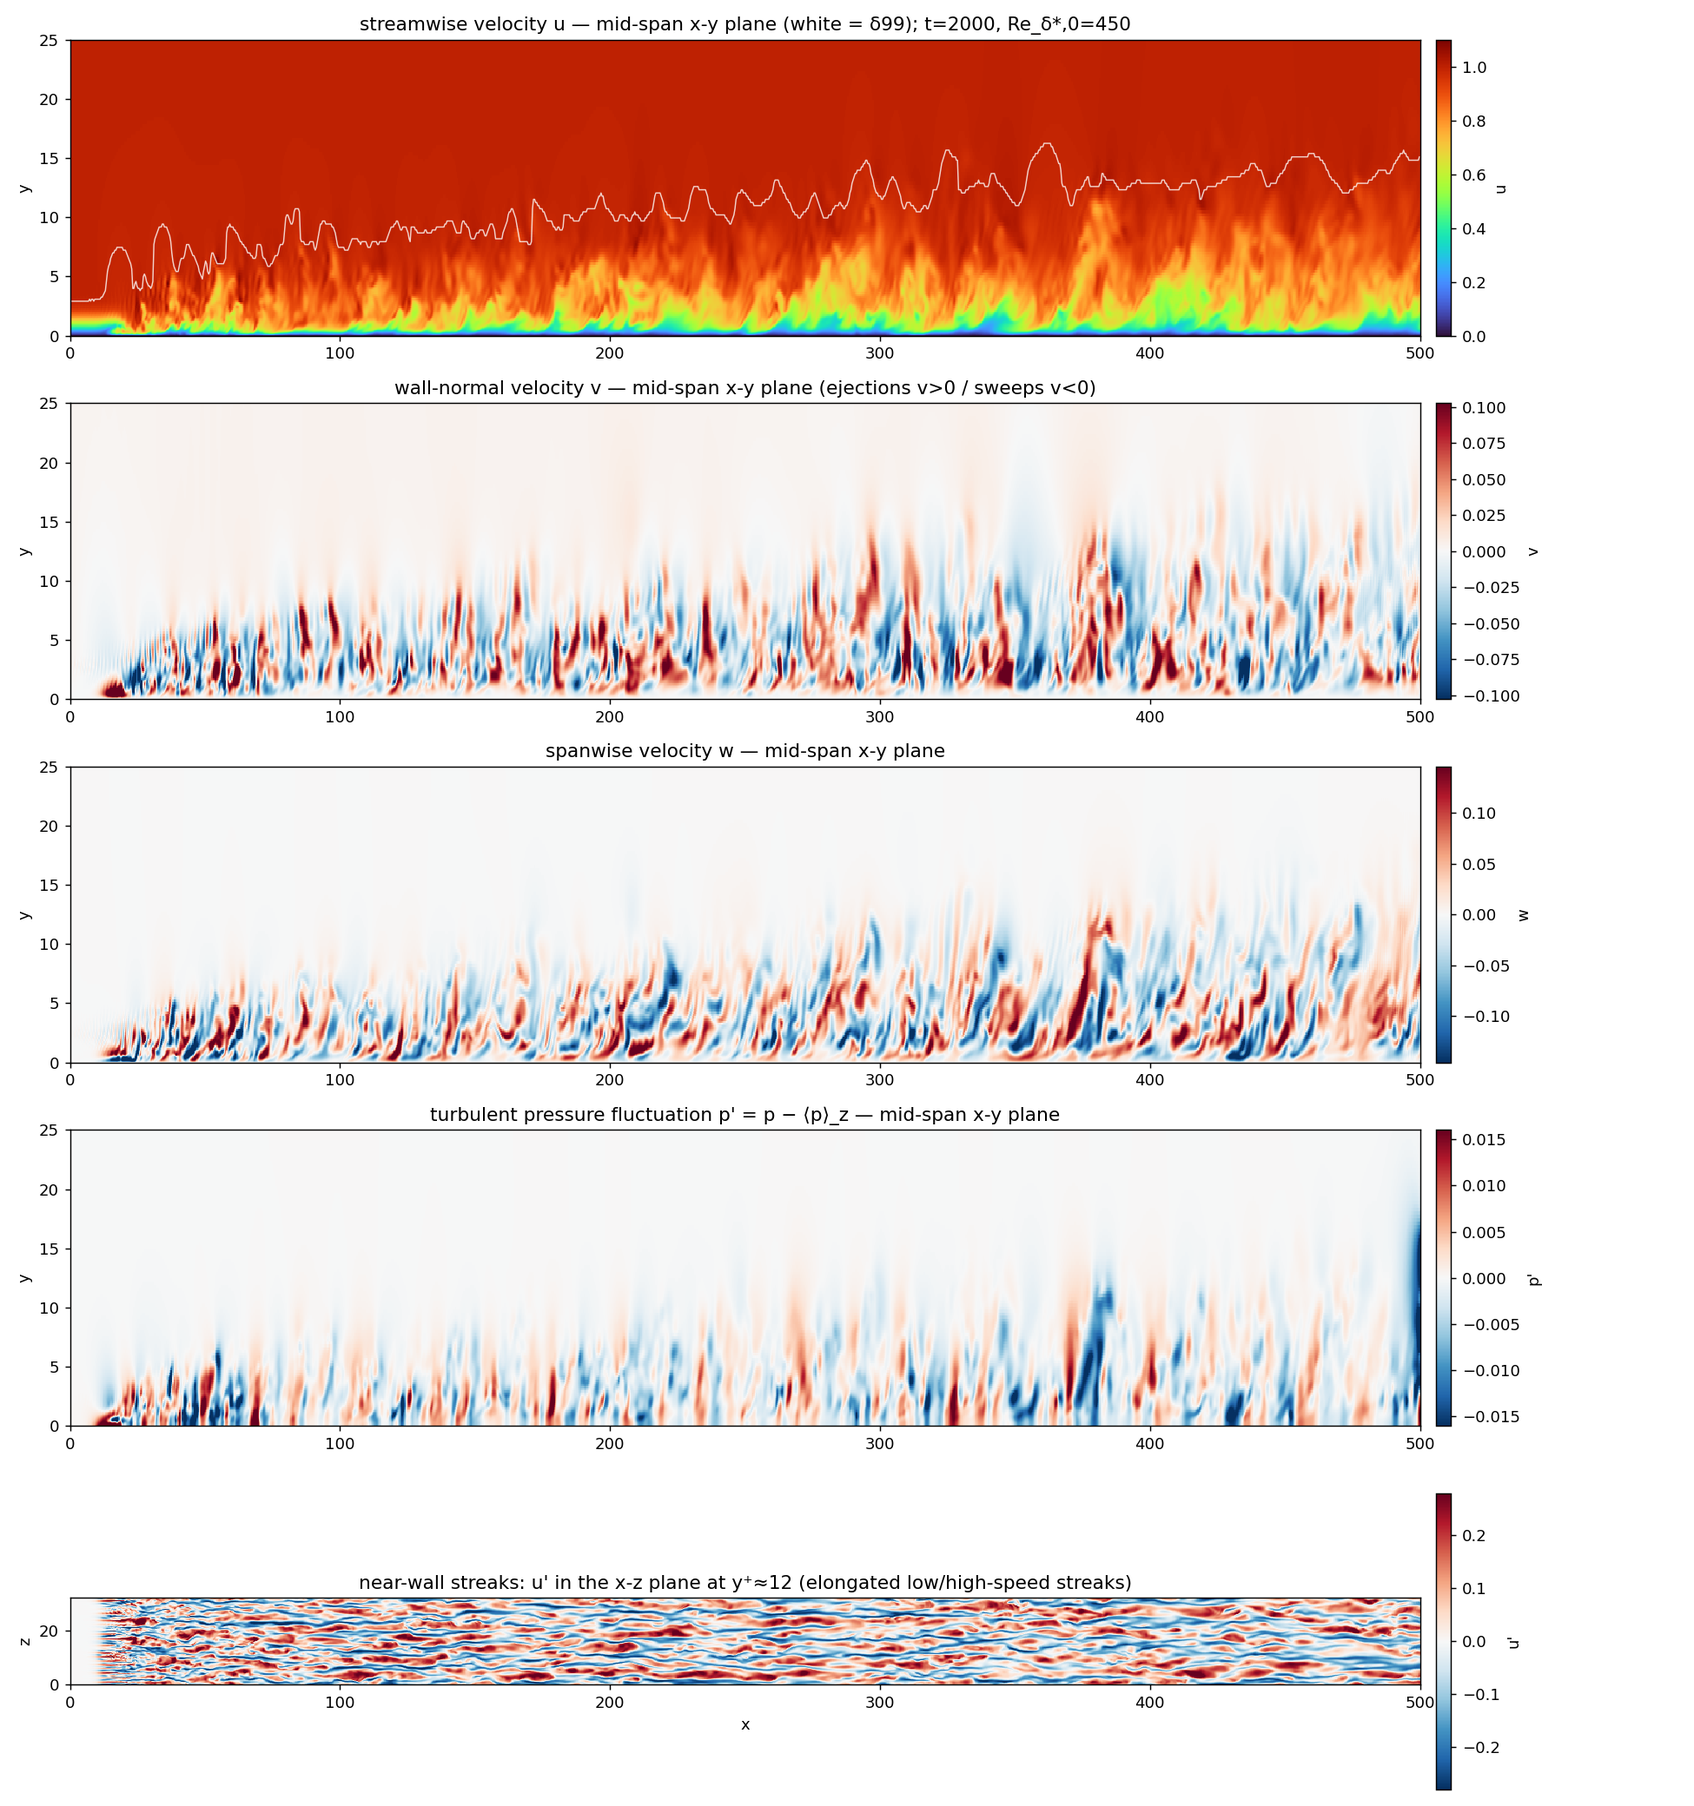
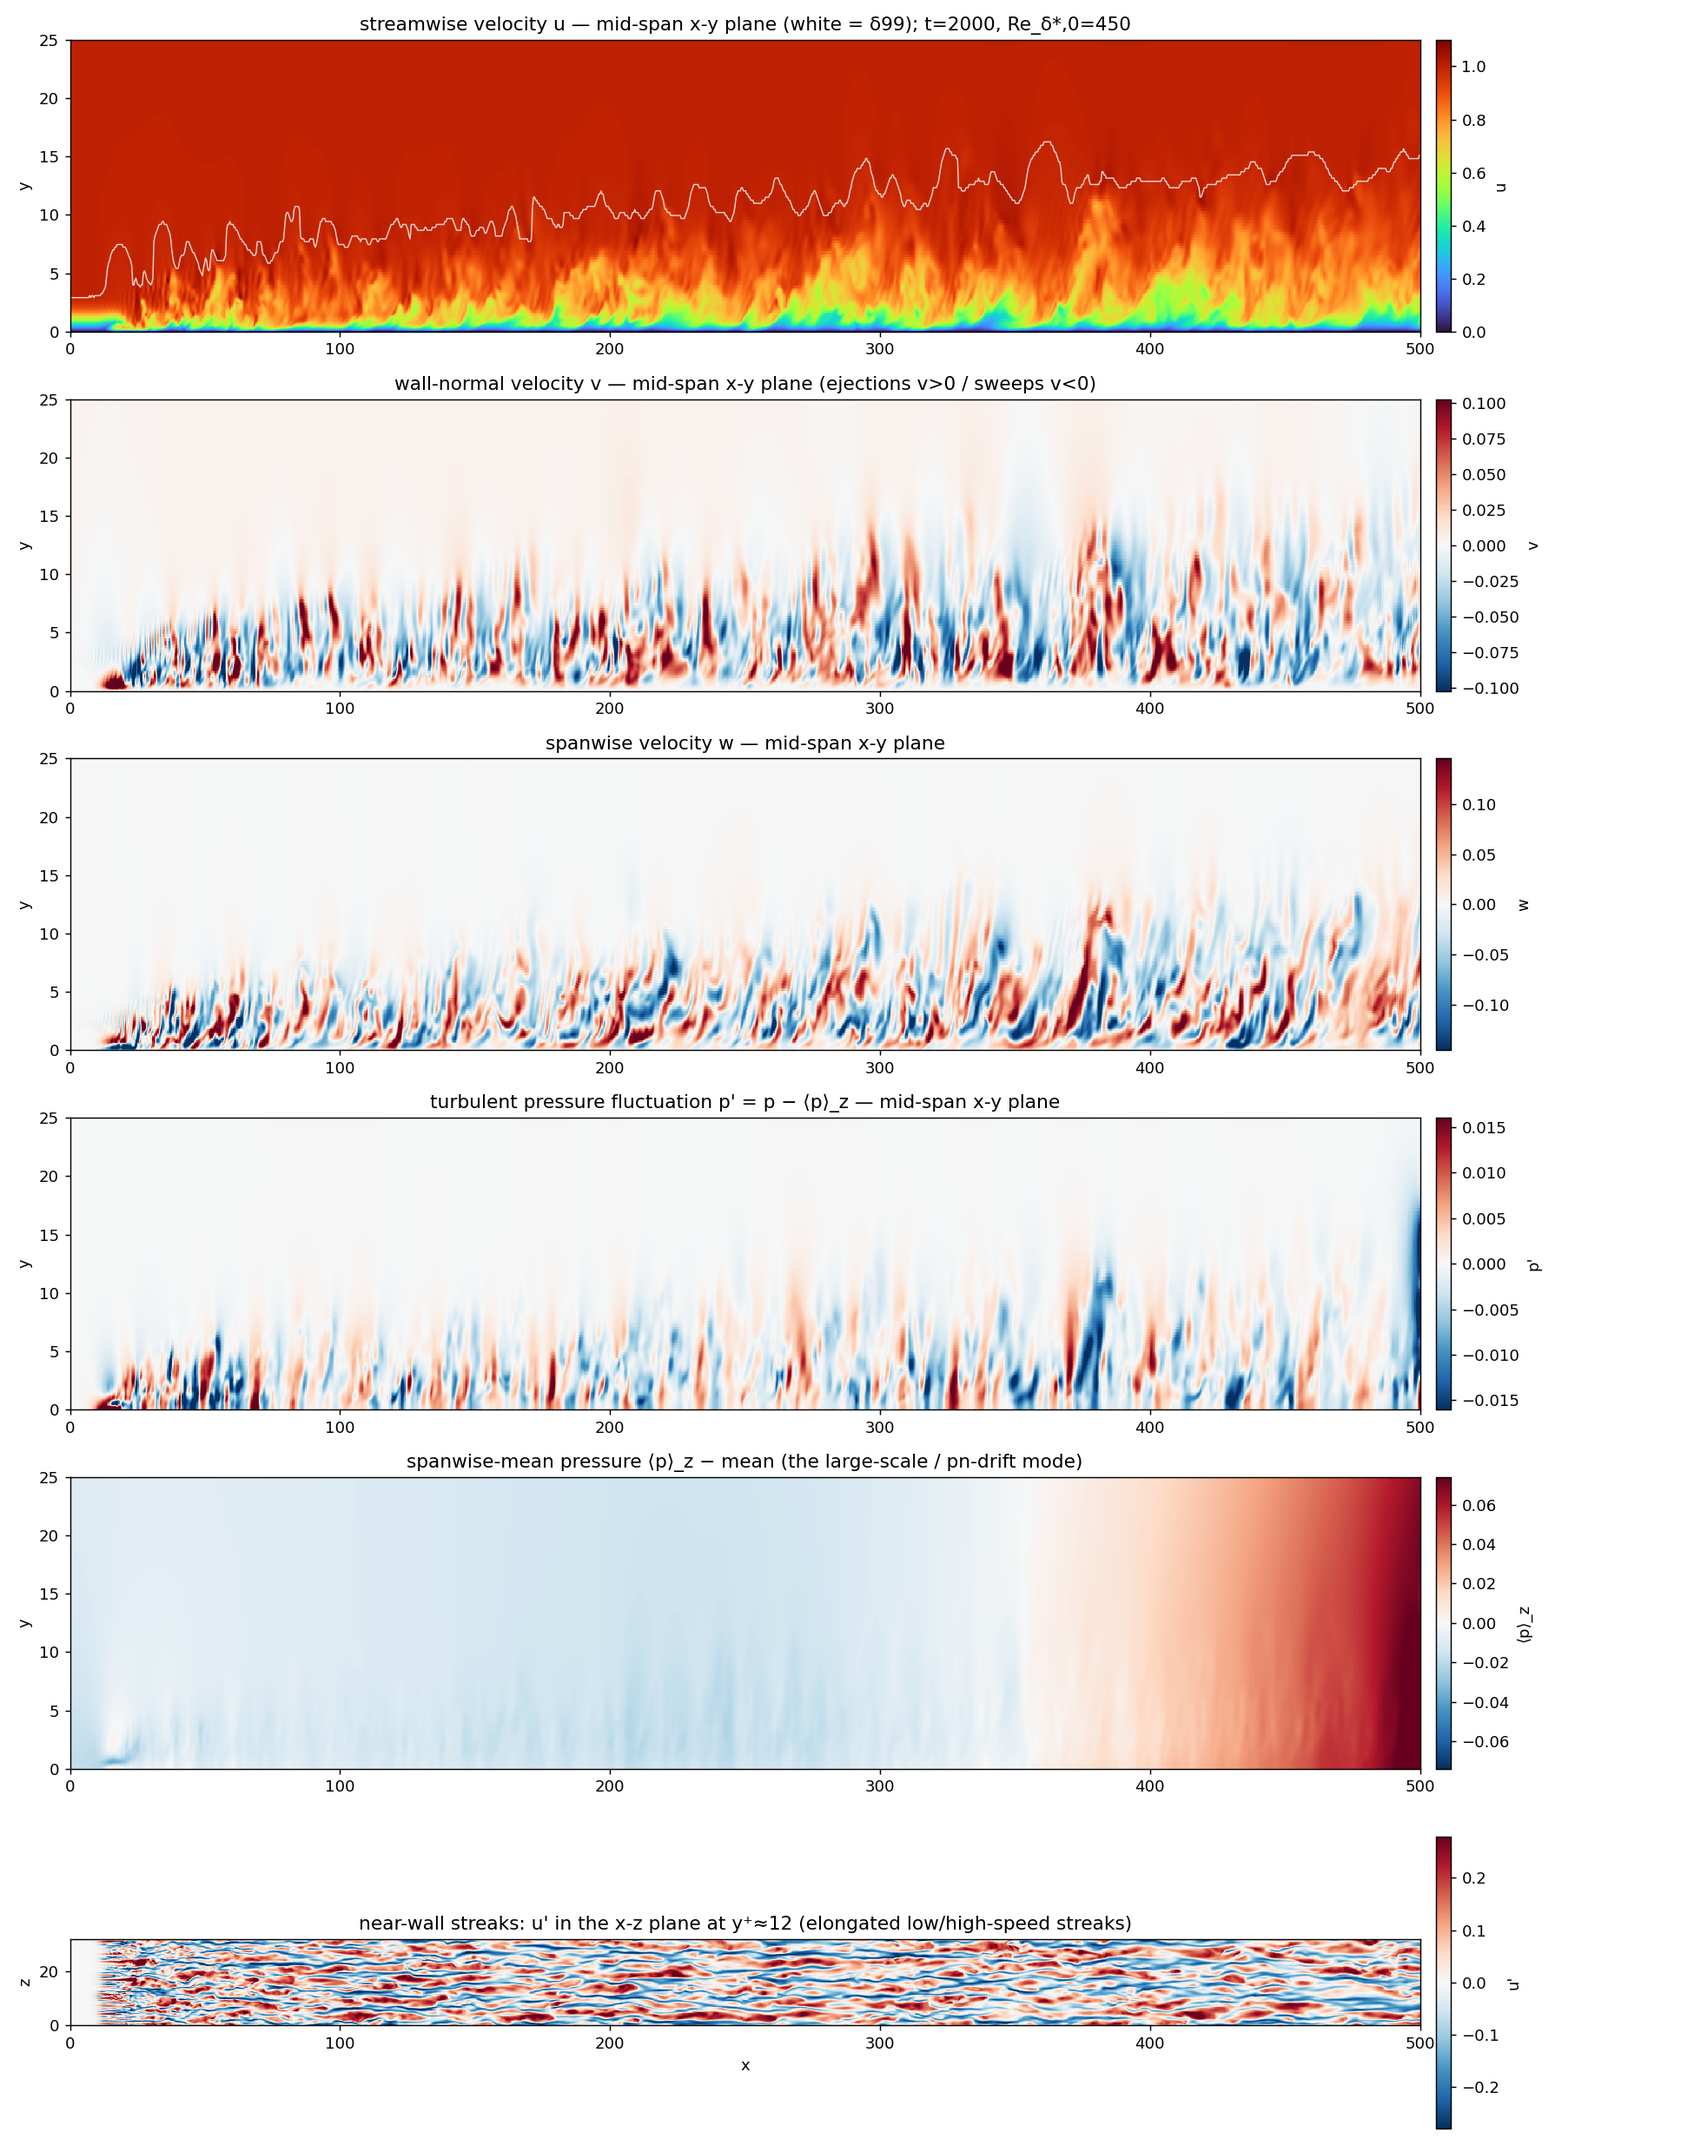
boundaryLayer: add <p>_z panel (large-scale pn-drift mode) to flowfield.png
viz_flowfield.py now also shows the spanwise-mean pressure <p>_z as a side
view -- the large-scale velocity-neutral pressure mode that the turbulent
p' = p - <p>_z removes (smooth, ~y-independent streamwise structure rising
to the pinned outlet). This is the mode that niter=12 in the stats stage
reduces. Six panels: u, v, w, p', <p>_z (side) + near-wall u' streaks (top).

diff --git a/tutorials/turbulentBoundaryLayer/turbulent/viz_flowfield.py b/tutorials/turbulentBoundaryLayer/turbulent/viz_flowfield.py
@@ -55,16 +55,20 @@ def main():
     matplotlib.use("Agg")
     import matplotlib.pyplot as plt
 
-    # Turbulent pressure fluctuation p' = p - <p>_z (spanwise mean removed):
-    # this strips both the ZPG offset and the large-scale velocity-neutral
-    # pressure mode (the projection pn-drift), leaving the turbulent structure
-    # -- the low-pressure cores of the near-wall vortices.
-    p = p - p.mean(axis=0, keepdims=True)
+    # Spanwise-mean pressure <p>_z (the large-scale structure, incl. the ZPG
+    # offset and the velocity-neutral pn-drift), and the turbulent
+    # fluctuation p' = p - <p>_z (the low-pressure cores of the near-wall
+    # vortices). Centre <p>_z on its own mean so the diverging map reads.
+    pmean_z = p.mean(axis=0)                        # (ny, nx)
+    p = p - pmean_z[np.newaxis, :, :]              # p' (nz, ny, nx)
+    pmean_z = pmean_z - pmean_z.mean()
 
-    fig, ax = plt.subplots(5, 1, figsize=(15, 16))
+    fig, ax = plt.subplots(6, 1, figsize=(15, 19))
 
     def side(axis, field, cmap, label, title, vmin=None, vmax=None):
-        f2 = field[zmid, :jmax, :]
+        # field is a full (nz,ny,nx) volume (mid-span slice) or a 2D (ny,nx)
+        # spanwise-averaged field.
+        f2 = field[zmid, :jmax, :] if field.ndim == 3 else field[:jmax, :]
         if vmin is None:
             lim = np.percentile(np.abs(f2), 99)
             vmin, vmax = -lim, lim
@@ -91,14 +95,19 @@ def main():
     side(ax[3], p, "RdBu_r", "p'",
          "turbulent pressure fluctuation p' = p − ⟨p⟩_z — mid-span x-y plane")
 
-    # (E) near-wall streaks: u' = u - <u>_z in an x-z plane at y+ ~ 12
+    # (E) spanwise-mean pressure <p>_z (side): the large-scale structure /
+    # velocity-neutral pn-drift that p' removes
+    side(ax[4], pmean_z, "RdBu_r", "⟨p⟩_z",
+         "spanwise-mean pressure ⟨p⟩_z − mean (the large-scale / pn-drift mode)")
+
+    # (F) near-wall streaks: u' = u - <u>_z in an x-z plane at y+ ~ 12
     up = u[:, jwall, :] - Um[jwall, :]
     lim = np.percentile(np.abs(up), 99)
-    pc = ax[4].pcolormesh(xc, zc, up, cmap="RdBu_r", vmin=-lim, vmax=lim,
+    pc = ax[5].pcolormesh(xc, zc, up, cmap="RdBu_r", vmin=-lim, vmax=lim,
                           shading="auto", rasterized=True)
-    fig.colorbar(pc, ax=ax[4], pad=0.01, label="u'")
-    ax[4].set_ylabel("z"); ax[4].set_xlabel("x"); ax[4].set_aspect("equal")
-    ax[4].set_title(f"near-wall streaks: u' in the x-z plane at y⁺≈{yplus_plane:.0f} "
+    fig.colorbar(pc, ax=ax[5], pad=0.01, label="u'")
+    ax[5].set_ylabel("z"); ax[5].set_xlabel("x"); ax[5].set_aspect("equal")
+    ax[5].set_title(f"near-wall streaks: u' in the x-z plane at y⁺≈{yplus_plane:.0f} "
                     f"(elongated low/high-speed streaks)")
 
     fig.tight_layout()
